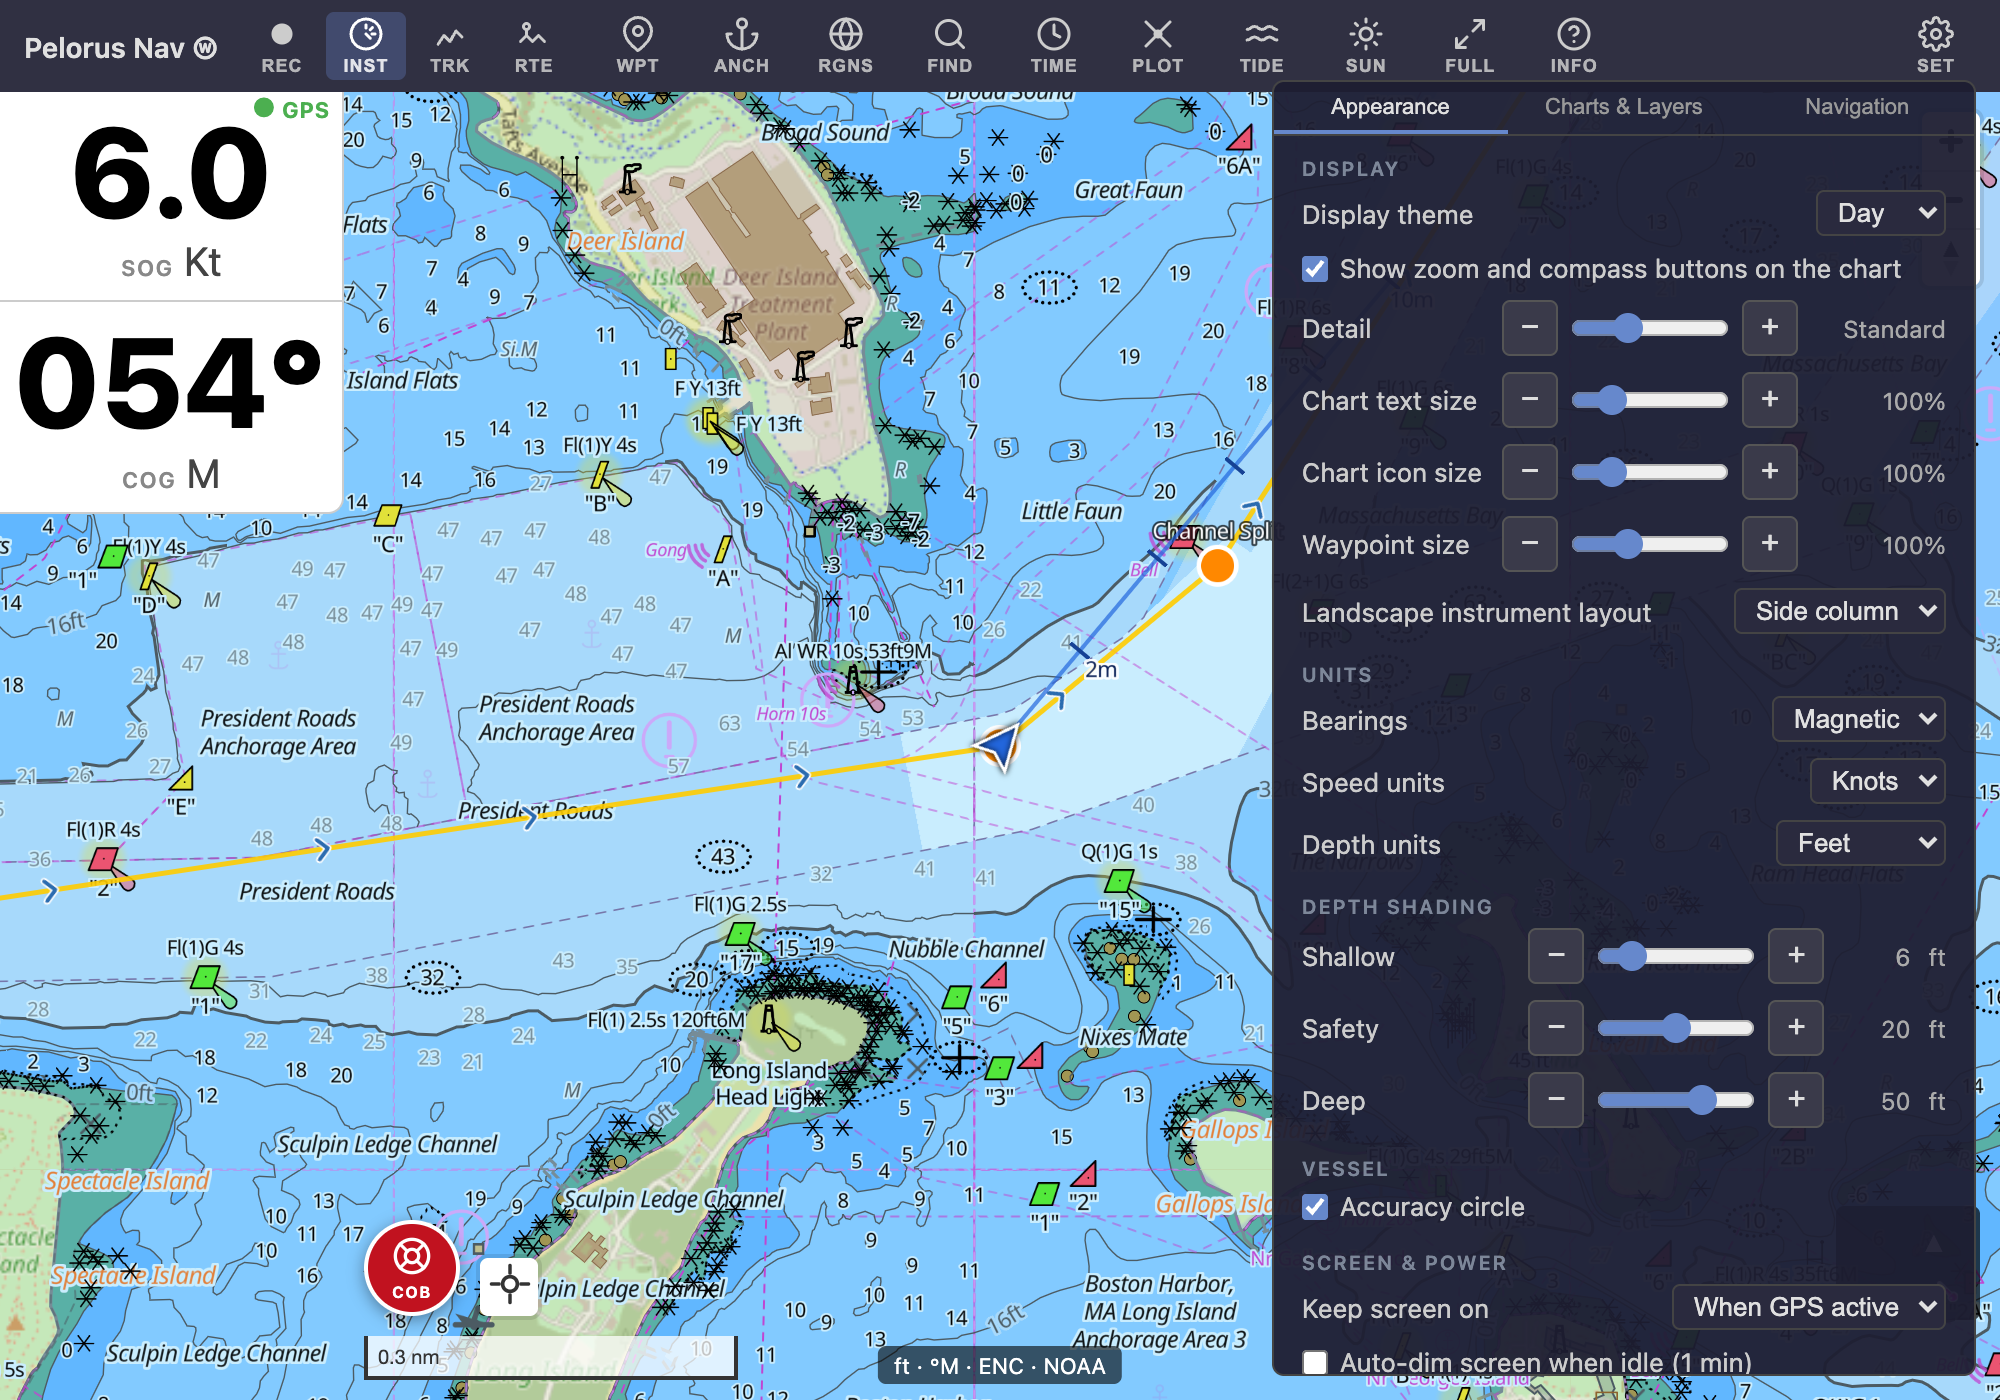
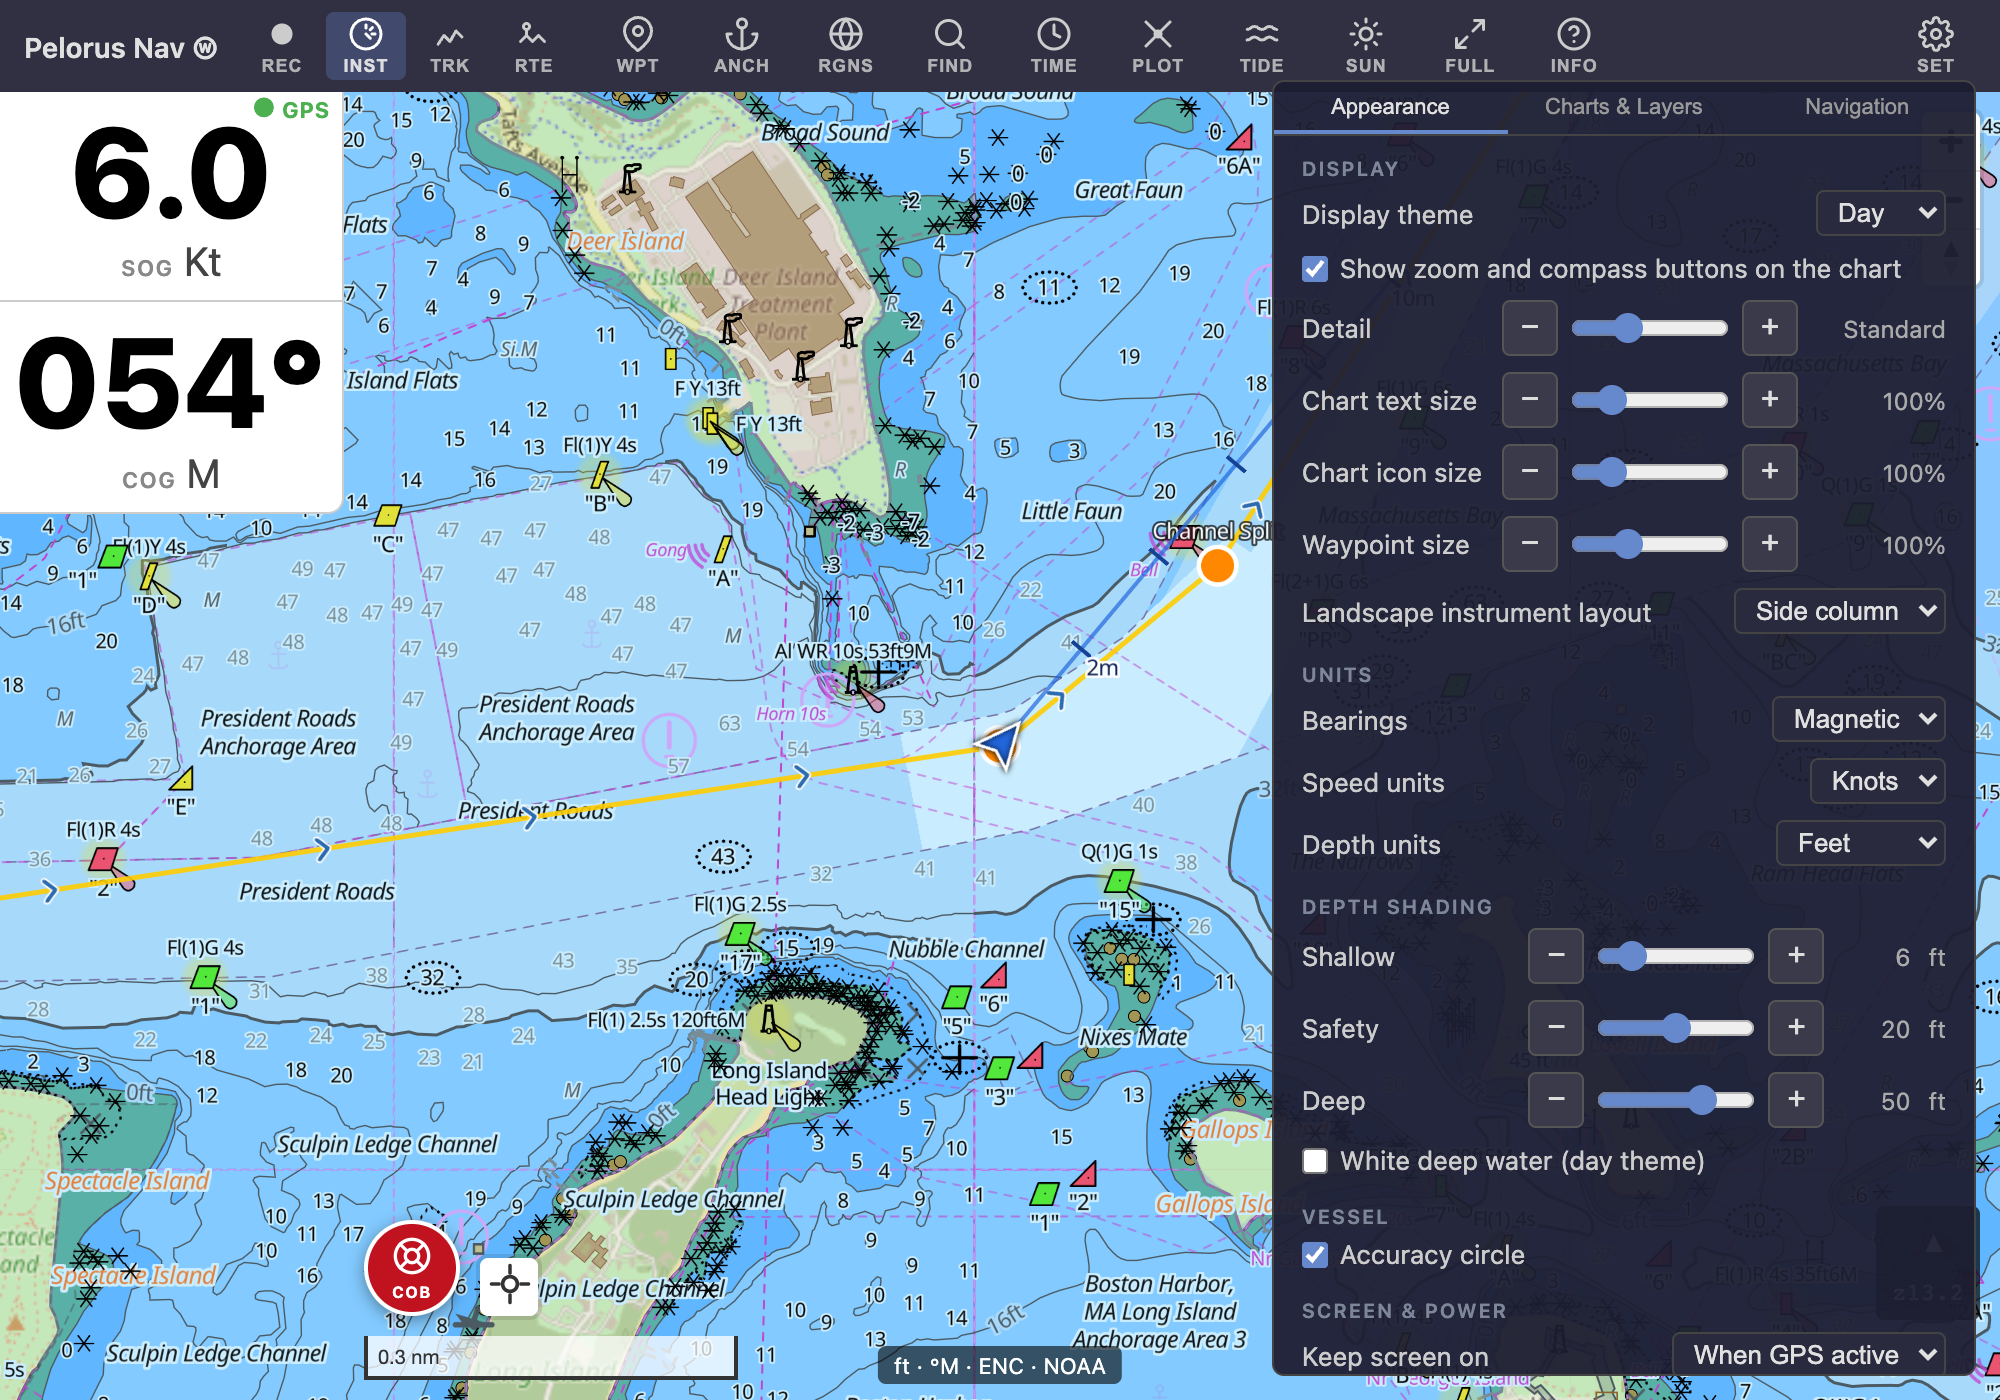
feat(chart): add a "White deep water" preference for the day theme
Draws deep water (and the halo/white tokens S-52 keys to it) plain white
instead of pale blue, as the e-ink theme already does. Day theme only:
dusk and night use black deep water. Toggling it rebuilds the style.

Claude-Session: https://claude.ai/code/session_01P4iEoo21sfaXDCN2XVzHVN

Changed region(s): [[0.651, 0.7986, 0.961, 0.9829], [0.465, 0.5221, 0.527, 0.5529], [0.527, 0.4607, 0.558, 0.4914]]

diff --git a/src/chart/ChartManager.ts b/src/chart/ChartManager.ts
@@ -76,6 +76,7 @@ export class ChartManager {
   private prevActiveRegion: string;
   private prevShallowDepth: number;
   private prevDeepDepth: number;
+  private prevWhiteDeepWater: boolean;
   private prevTextScale: number;
   private prevIconScale: number;
   private prevHiddenRasterCharts: string;
@@ -165,6 +166,7 @@ export class ChartManager {
     this.prevActiveRegion = initial.activeRegion;
     this.prevShallowDepth = initial.shallowDepth;
     this.prevDeepDepth = initial.deepDepth;
+    this.prevWhiteDeepWater = initial.whiteDeepWater;
     this.prevTextScale = initial.textScale;
     this.prevIconScale = initial.iconScale;
     this.prevHiddenRasterCharts = JSON.stringify(initial.hiddenRasterCharts);
@@ -184,6 +186,7 @@ export class ChartManager {
         s.activeRegion !== this.prevActiveRegion ||
         s.shallowDepth !== this.prevShallowDepth ||
         s.deepDepth !== this.prevDeepDepth ||
+        s.whiteDeepWater !== this.prevWhiteDeepWater ||
         s.textScale !== this.prevTextScale ||
         s.iconScale !== this.prevIconScale ||
         JSON.stringify(s.hiddenRasterCharts) !== this.prevHiddenRasterCharts;
@@ -201,6 +204,7 @@ export class ChartManager {
         this.prevActiveRegion = s.activeRegion;
         this.prevShallowDepth = s.shallowDepth;
         this.prevDeepDepth = s.deepDepth;
+        this.prevWhiteDeepWater = s.whiteDeepWater;
         this.prevTextScale = s.textScale;
         this.prevIconScale = s.iconScale;
         this.prevHiddenRasterCharts = JSON.stringify(s.hiddenRasterCharts);

diff --git a/src/chart/s52-colours.ts b/src/chart/s52-colours.ts
@@ -339,13 +339,29 @@ export function themeToColourScheme(theme: DisplayTheme): ColourScheme {
 }
 
 /**
+ * Tokens that S-52 defines as "the deep-water colour": the fill itself and
+ * the halos/whites that must match it so text sits on the water seamlessly.
+ * The "white deep water" preference overrides all of them together.
+ */
+const DEEP_WATER_TOKENS = new Set(["DEPDW", "CHWHT", "SNDGH", "NAIDH"]);
+
+/**
  * Look up an S-52 colour token value.
  * Without an explicit scheme, resolves against the current display theme
- * from settings at call time.
+ * from settings at call time. The DAY palette honours the `whiteDeepWater`
+ * setting whichever way the scheme was chosen.
  */
 export function s52Colour(token: string, scheme?: ColourScheme): string {
+  const settings = getSettings();
   const palette =
-    PALETTES[scheme ?? themeToColourScheme(getSettings().displayTheme)];
+    PALETTES[scheme ?? themeToColourScheme(settings.displayTheme)];
+  if (
+    palette === DAY &&
+    settings.whiteDeepWater &&
+    DEEP_WATER_TOKENS.has(token)
+  ) {
+    return "#FFFFFF";
+  }
   const value = palette[token];
   if (value === undefined) {
     // Fall back to DAY palette if token not found in current scheme

diff --git a/src/chart/s52-colours.test.ts b/src/chart/s52-colours.test.ts
@@ -1,0 +1,31 @@
+import { afterEach, describe, expect, it } from "vitest";
+import { updateSettings } from "../settings";
+import { s52Colour } from "./s52-colours";
+
+describe("s52Colour white deep water", () => {
+  afterEach(() => {
+    updateSettings({ whiteDeepWater: false, displayTheme: "day" });
+  });
+
+  it("keeps the S-52 palette by default", () => {
+    expect(s52Colour("DEPDW", "DAY")).toBe("#C9EDFE");
+    expect(s52Colour("NAIDH", "DAY")).toBe("#C9EDFE");
+  });
+
+  it("turns deep water and its matching halos white in the day palette", () => {
+    updateSettings({ whiteDeepWater: true });
+    for (const token of ["DEPDW", "CHWHT", "SNDGH", "NAIDH"]) {
+      expect(s52Colour(token, "DAY")).toBe("#FFFFFF");
+      expect(s52Colour(token)).toBe("#FFFFFF");
+    }
+    expect(s52Colour("DEPMD", "DAY")).toBe("#A7D9FB");
+  });
+
+  it("leaves the other palettes alone", () => {
+    updateSettings({ whiteDeepWater: true });
+    expect(s52Colour("DEPDW", "NIGHT")).toBe("#000000");
+    expect(s52Colour("DEPDW", "EINK")).toBe("#f8fafd");
+    updateSettings({ displayTheme: "night" });
+    expect(s52Colour("DEPDW")).toBe("#000000");
+  });
+});

diff --git a/src/ui/SettingsPanel.ts b/src/ui/SettingsPanel.ts
@@ -401,6 +401,14 @@ function buildAppearanceTab(
   // ── Depth shading thresholds ────────────────────────────────────
   tab.appendChild(buildSectionHeader("Depth shading"));
   tab.appendChild(buildDepthThresholdSliders());
+  tab.appendChild(
+    buildCheckboxRow(
+      "White deep water (day theme)",
+      "settings-white-deep-water",
+      settings.whiteDeepWater,
+      (checked) => updateSettings({ whiteDeepWater: checked }),
+    ),
+  );
 
   // ── Vessel ──────────────────────────────────────────────────────
   tab.appendChild(buildSectionHeader("Vessel"));

diff --git a/src/settings.ts b/src/settings.ts
@@ -97,6 +97,11 @@ export interface Settings {
   safetyDepth: number;
   /** Deep water threshold in meters (areas >= this get DEPDW color). */
   deepDepth: number;
+  /**
+   * Draw deep water white instead of S-52's pale blue. Day theme only:
+   * dusk and night use black deep water, and e-ink is already white.
+   */
+  whiteDeepWater: boolean;
   /** Screen wake lock: off, when GPS active, or always. */
   wakeLock: WakeLockMode;
   /** Auto-dim the screen after a stretch of no user interaction (native only). */
@@ -303,6 +308,7 @@ const DEFAULTS: Settings = {
   shallowDepth: 1.83,
   safetyDepth: 6.1,
   deepDepth: 15.24,
+  whiteDeepWater: false,
   wakeLock: "when-nav",
   autoDimWhenIdle: false,
   autoReturnWhenIdle: true,

diff --git a/docs-site/getting-started.md b/docs-site/getting-started.md
@@ -65,7 +65,9 @@ people change first, all on the **Appearance** tab:
 - **Depth shading** — the Shallow / Safety / Deep thresholds control the
   blue depth tinting. Set them for *your* boat — e.g. with a 6 ft draft you
   might use 8 ft shallow and 12 ft safety, so water you can't enter is
-  obviously colored.
+  obviously colored. **White deep water** draws deep water white instead
+  of pale blue in the Day theme, for a paper-chart look or a brighter
+  screen in sunlight.
 - **Keep screen on** — "When GPS active" keeps the display awake while
   you're underway.
 - **Screen lock & volume-key zoom** (Android) — the volume keys zoom the

diff --git a/CHANGELOG.md b/CHANGELOG.md
@@ -17,6 +17,9 @@ The format follows [Keep a Changelog](https://keepachangelog.com/).
   a notice: Android opens the Play Store listing, iOS the release notes. **Check for updates at startup** in the
   About dialog turns this off (on the web it also stops the background
   polling for new builds).
+- **White deep water** (Settings → Appearance → Depth shading) draws deep
+  water white instead of pale blue in the Day theme, as the E-ink theme
+  already does.
 
 ### Fixed
 - Starting a route while sailing it the other way (leaving the harbour a

diff --git a/docs-site/chart-display.md b/docs-site/chart-display.md
@@ -83,7 +83,8 @@ where there are no prediction stations.
 
 Depth shading (the blue tint bands) is configured on the Appearance tab —
 set the **Shallow**, **Safety**, and **Deep** thresholds to match your
-draft, and the chart colors water depths accordingly.
+draft, and the chart colors water depths accordingly. **White deep water**
+swaps the Day theme's pale-blue deep water for plain white.
 
 ## Display themes
 
